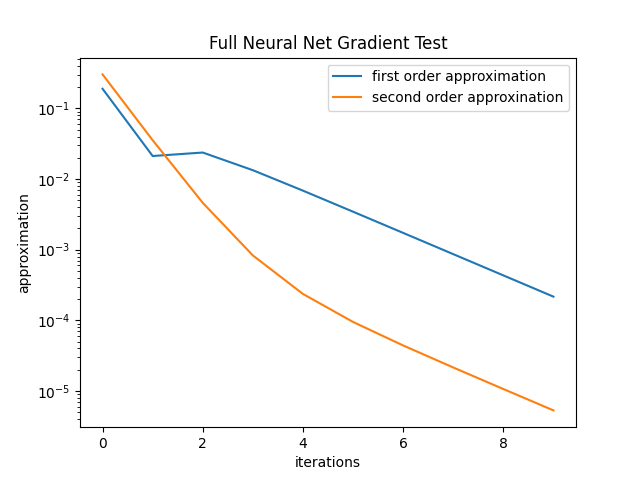
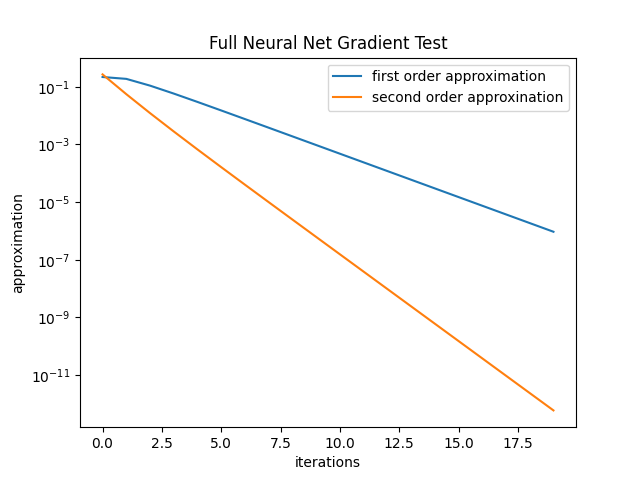
full gradient work, success rate is not so good

diff --git a/standard_neural_net.py b/standard_neural_net.py
@@ -2,10 +2,19 @@ import numpy as np
 import scipy.io as sp
 import matplotlib.pyplot as plt
 import util
+import data_utils as du
 
+# for graient test use:
+
+# activation_function = np.tanh
+# activation_function_derivative = util.tanh_derivative
+
+# for actual usecase use:
 activation_function = util.relu
-output_layer_function = util.soft_max_loss
 activation_function_derivative = util.relu_derivative
+
+
+output_layer_function = util.soft_max_loss
 loss_function_grad_theta = util.soft_max_regression_grad_by_theta
 loss_function_grad_x = util.soft_max_regression_grad_by_x
 
@@ -37,7 +46,6 @@ class ff_standard_neural_network:
         for layer in range(self.num_of_layers - 1):
             ones_row = np.ones((1, X.shape[1]))
             X_with_ones = np.vstack((X, ones_row))
-            # X = np.concatenate([X, np.ones((1, X.shape[1]))], axis=0)
             if layer < self.num_of_layers - 2:
                 X = Ws[layer] @ X_with_ones
                 X = activation_function(X)
@@ -47,37 +55,20 @@ class ff_standard_neural_network:
         # activations[i] is the output of layer i
         return X
 
-    def fit(self, x_train, y_train, epochs=10, mini_batch_size=10):
+    def fit(self, x_train, y_train, x_test, c_test, learning_rate=0.1, epochs=10, mini_batch_size=10):
 
-        x_batches, y_batches = util.split_into_batches(
+        x_batches, y_batches = util.split_into_batches_T(
             x_train, y_train, mini_batch_size)
 
         for i in range(epochs):
-
+            print(
+                f"staring epoch {i} with success rate of {self.compute_success_precent(x_test, c_test) * 100}%")
             for x_batch, y_batch in zip(x_batches, y_batches):
-                outputs = self.feed_forward(x_batch)  # add C to feed_forward
-                # compute loss
-                # compute gradients (backpropagation)
-                # update weights
-                pass
-
-    # def Jac_f_by_x(W, z, vec):
-    #     diag = activation_function_derivative(z)
-    #     jac = diag[:, np.newaxis] * W
-    #     return jac.T @ vec
-
-    # def Jac_f_by_theta(n1, n2, x, z, activation_function_derivative, vec):
-    #     grad_theta = np.array([])
-    #     for i in range(n1):
-    #         for j in range(n2):
-    #             row = np.zeros((1, n2))
-    #             row[i] = activation_function_derivative(z[j]) * x[i]
-    #             np.concatenate(grad_theta, np.array([np.dot(row, vec)]))
-    #     for i in range(n2):
-    #         row = np.zeros((1, n2))
-    #         row[i] = activation_function_derivative(z[j])
-    #         np.concatenate(grad_theta, np.array([np.dot(row, vec)]))
-    #     return grad_theta
+                loss = self.feed_forward(x_batch, y_batch)
+                grad = self.Grad_F_by_Theta(y_batch)
+                self.weights = [self.weights[j] - learning_rate * grad[j]
+                                for j in range(len(grad))]
+            print(f"finished epoch {i} with loss = {loss}")
 
     def Grad_F_by_Theta(self, C):
         grad = np.array(loss_function_grad_theta(
@@ -87,7 +78,6 @@ class ff_standard_neural_network:
             self.activations[-2], self.weights[-1], C)
 
         for X, weights in reversed(list(zip(self.activations[:-2], self.weights[:-1]))):
-            print(f"back_prop_grad shape: {back_prop_grad.shape}")
             grad = util.JacMV_f_by_theta_transpose(X, weights, back_prop_grad)
             grads_Ws.insert(0, grad)
             back_prop_grad = util.JacMV_f_by_x_transpose(
@@ -118,9 +108,9 @@ class ff_standard_neural_network:
             d = [epsilon * W_i for W_i in d0]
             W_plus_d = [self.weights[i] + d[i]
                         for i in range(len(self.weights))]
-            F1 = self.feed_forward(X, C , W_plus_d)
+            F1 = self.feed_forward(X, C, W_plus_d)
             print(f"iteration {i} F1: {F1}")
-            F2 = np.sum([np.dot((g0[j]).flatten(),(d[j]).flatten())
+            F2 = np.sum([np.dot((g0[j]).flatten(), (d[j]).flatten())
                          for j in range(len(d))])
             print(f"iteration {i} F2: {F2}")
             y1.append(np.abs(F1 - F0))
@@ -135,39 +125,30 @@ class ff_standard_neural_network:
         plt.legend()
         plt.show()
 
-    # Sample test input to initialize ff_standard_neural_network class
+    def compute_success_precent(self, x_test, c_test):
+        X = x_test
+        Ws = self.weights
+        for i in range(len(Ws)-1):
+            ones_row = np.ones((1, X.shape[1]))
+            X_with_ones = np.vstack((X, ones_row))
+            X = util.activation_function(Ws[i] @ X_with_ones)
+        ones_row = np.ones((1, X.shape[1]))
+        X_with_ones = np.vstack((X, ones_row))
+        logits = util.stable_softmax(Ws[-1] @ X_with_ones)
+        pred_test = np.argmax(logits, axis=0)
+        correct_predictions_test = np.sum(
+            pred_test == np.argmax(c_test, axis=0))
+        succ_rate_test = correct_predictions_test / c_test.shape[1]
+        return succ_rate_test
 
 
 if __name__ == "__main__":
-    # input_dimension = 5  # For example, a neural network with 5 input features
-    # # Two hidden layers, first with 4 neurons and second with 3 neurons
-    # hidden_layers_dimensions = [4, 3]
-    # # Assuming a binary classification task, so 2 output neurons
-    # output_layer_dimension = 2
-
-    # # Initialize the ff_standard_neural_network instance
-    # network = ff_standard_neural_network(
-    #     input_dimension, hidden_layers_dimensions, output_layer_dimension)
-    # # print([network.weights[i].shape for i in range(len(network.weights))])
-
-    # network = ff_standard_neural_network(3, [2], 3)
-
-    # # Test input: batch of 2 vectors, each with 3 features
-    # input_batch = np.array([[0.5, -0.5],  [0.3, 0.5], [-0.5,  0.3]])
-    # print(input_batch.shape)
-    # C = np.zeros((3, 2))
-    # for i in range(C.shape[0]):
-    #     C[i][np.random.randint(0, C.shape[1])] = 1
-    # # Execute feed_forward
-    # print("loss for x: ", network.feed_forward(input_batch, C))
-    # activations = network.activations
-    # # Display the output
-    # for i, activation in enumerate(activations):
-    #     print(f"Layer {i+1} activations:\n{activation}\n")
-
-    # print([w.shape for w in network.Grad_F_by_Theta(C)])
-    # print([w.shape for w in network.weights])
 
     # network = ff_standard_neural_network(5, [20, 15], 3)
-    network = ff_standard_neural_network(5, [2, 5], 3)
-    network.gradient_test_nn(30)
+    x_train, c_train, x_test, c_test = du.load_matlab_data_np_arrays(
+        "datasets\\GMMData.mat")
+    network = ff_standard_neural_network(5, [6, 6], 5)
+    network.fit(x_train, c_train, x_test, c_test,
+                epochs=50, learning_rate=0.05)
+    # print(network.compute_success_precent(x_test, c_test))
+    # network.gradient_test_nn(30)
